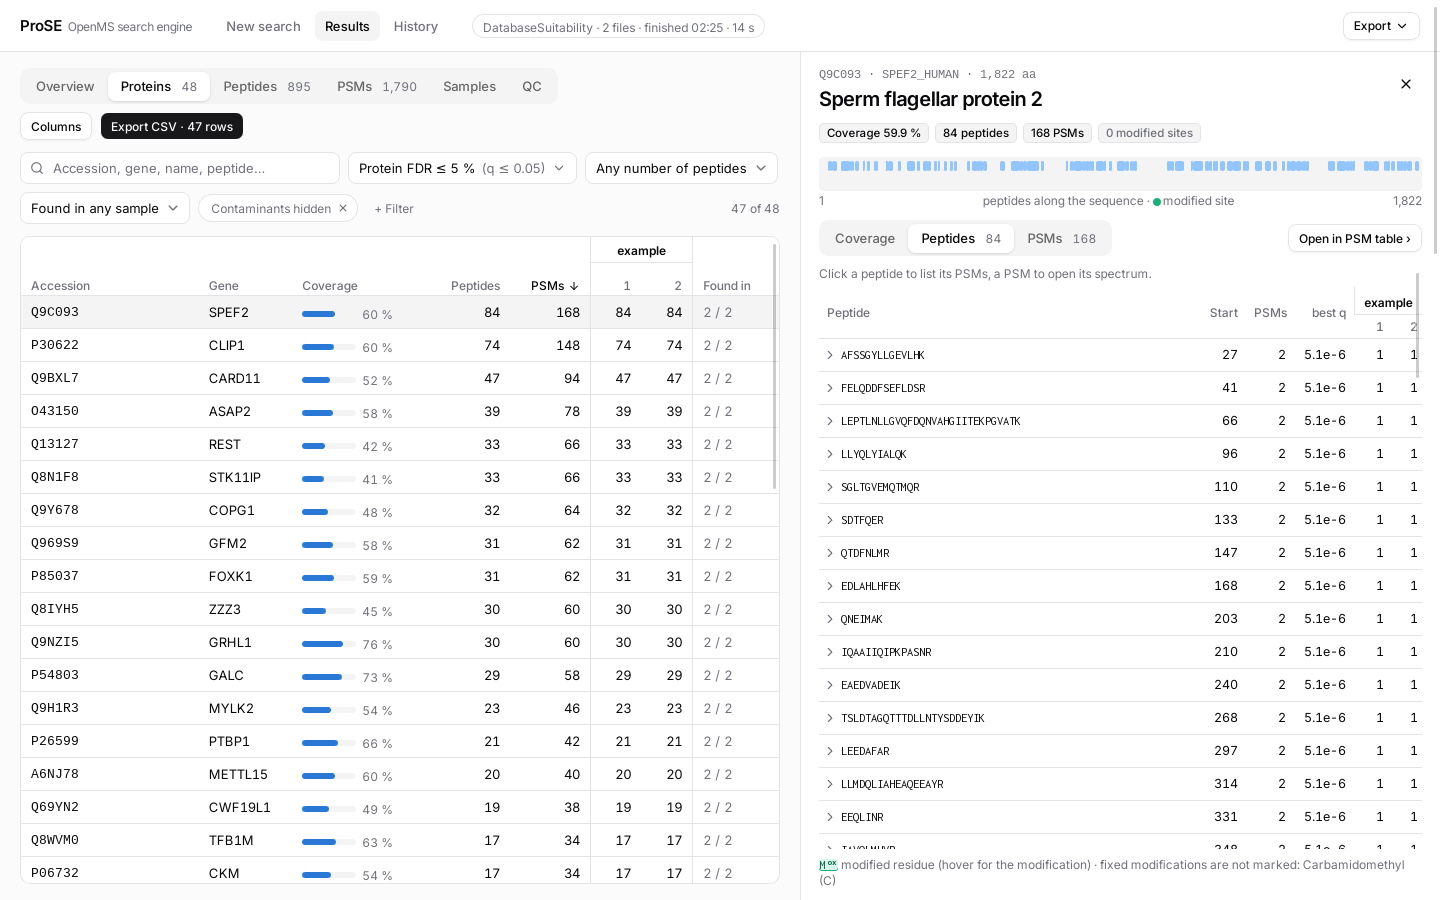
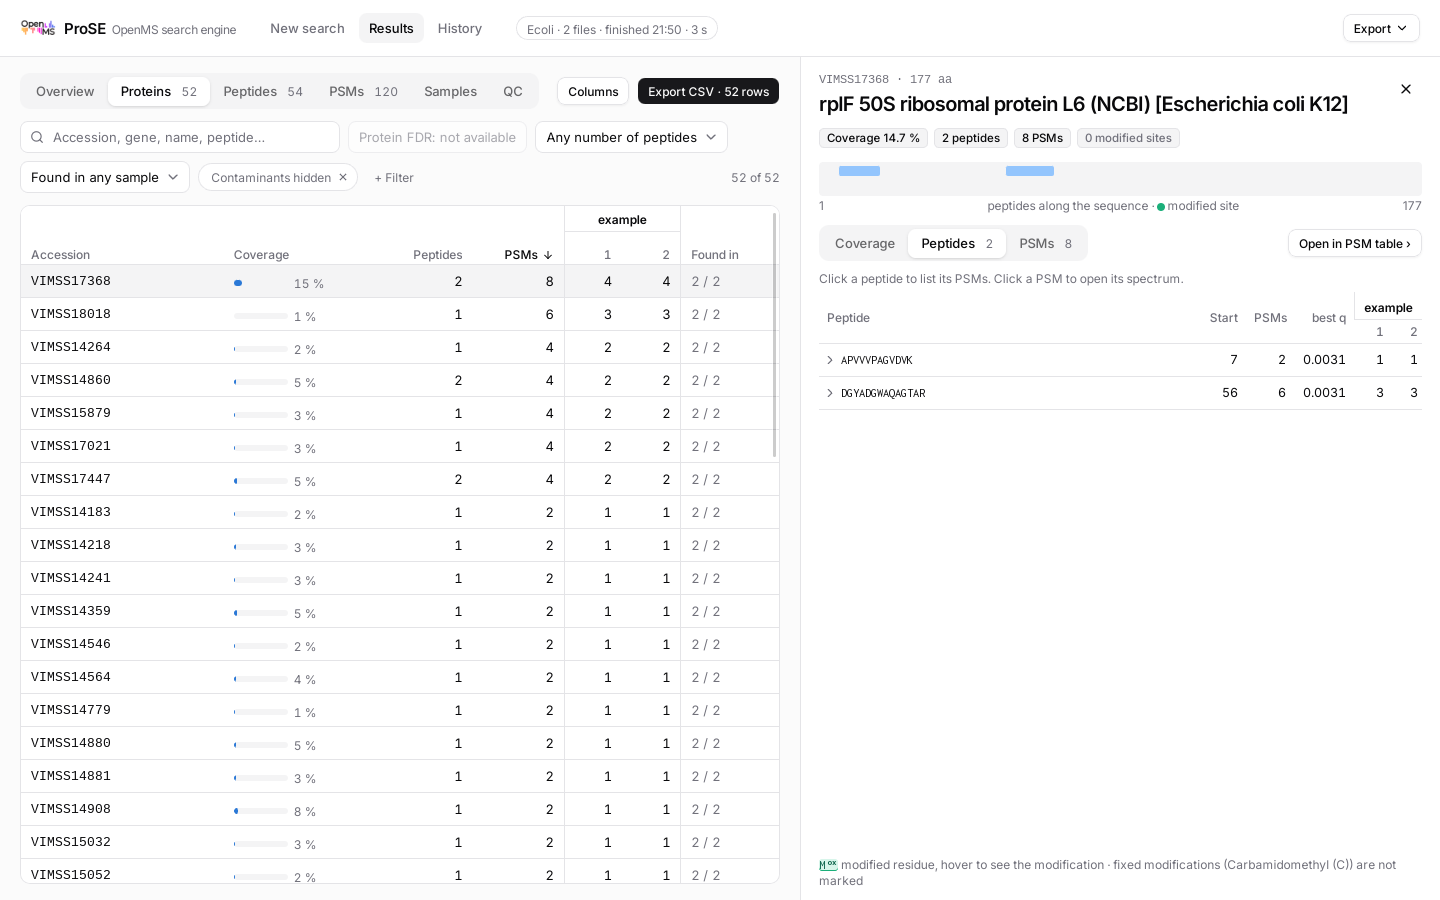
desktop docs: screenshots of 0.1.1 (the E. coli example, the new PSM view); compare.html says what changed

diff --git a/docs/screens/compare.html b/docs/screens/compare.html
@@ -18,12 +18,13 @@
 <body>
 <h1>ProSE desktop (left) next to the web app (right)</h1>
 <p>
-  <b>These screenshots are of desktop 0.1.0</b>, whose bundled example was the web app's (the simulated
-  DatabaseSuitability run): the pairs show the same data. From 0.1.1 the desktop's example is OpenMS' E. coli run
-  (<code>Ecoli_MS2_small.mzML</code>, LTQ Orbitrap XL, CID, against the E. coli K-12 proteins, fragments at 0.5 Da), the
-  top bar has the OpenMS logo, the settings card has both "Advanced" and the web app's "All 72 parameters" dialog, and
-  many grey texts are reworded. A new run of <code>e2e/screens.shot.ts</code> shows the E. coli example, which the web
-  screenshots do not have.
+  <b>The desktop screenshots are of 0.1.1</b>, the web ones of the web app. They no longer show the same data: from
+  0.1.1 the desktop's example is OpenMS' E. coli run (<code>Ecoli_MS2_small.mzML</code>, LTQ Orbitrap XL, CID, against
+  the E. coli K-12 proteins, fragments at 0.5 Da), the web app's is the simulated DatabaseSuitability run. The notes
+  under each pair below were written for 0.1.0, when both showed the web app's example. What 0.1.1 changes besides:
+  the OpenMS logo in the top bar; the settings card has "Advanced" and the web app's "All 72 parameters" dialog; the
+  fragment mass errors sit under the mirror spectrum on its m/z axis (in the unit of the fragment tolerance), with the
+  ion table and the PSM features below; many grey texts are reworded.
 </p>
 <p>
   Both at 1440×900. Desktop: the debug build in WebKitGTK under Xvfb (<code>e2e/screens.shot.ts</code>), the pinned
